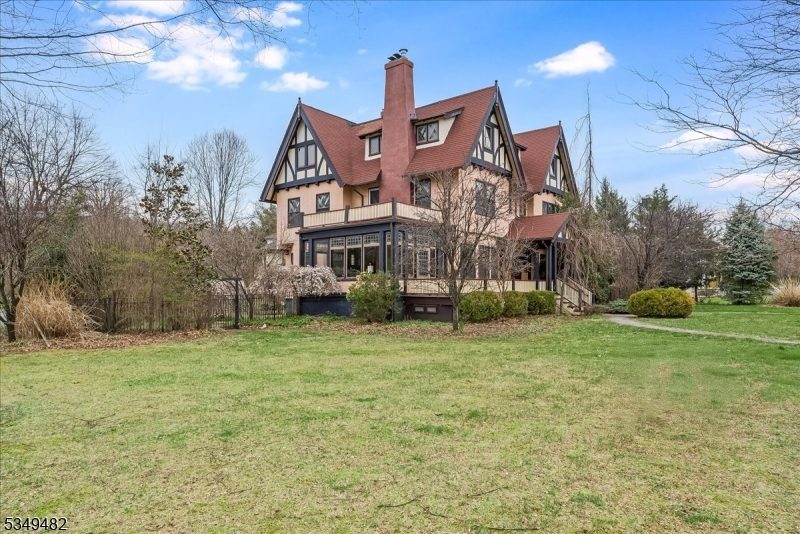
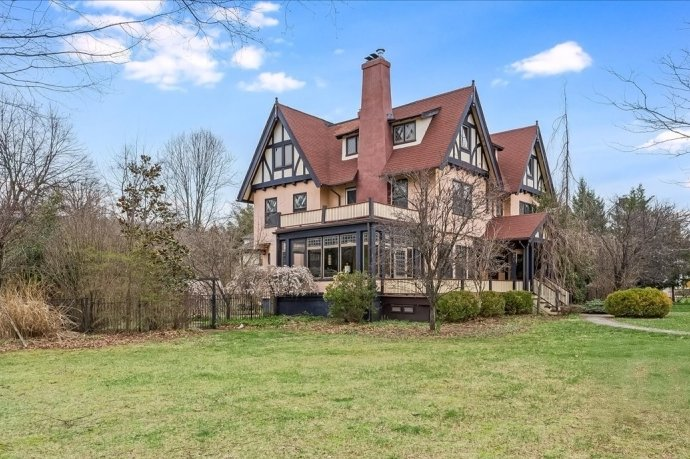
Feature Montclair and Park Avenue on the home page, deep-link projects
Hero: replace the middle (kitchen) and right (nursery) panels with the
Montclair kitchen and the Park Avenue living/dining room. These reference
the portfolio files directly rather than duplicating them into
images/home/.

Selected Work: the Eye Care Center and Peru Retreat tiles become Montclair
House and Park Avenue, and all five tiles now deep-link to their own
project rather than dropping the visitor at the top of the portfolio.
Each project-section carries an id, with scroll-margin-top so the heading
clears the fixed header.

Add a hash handler in main.js. The portfolio page is long and lazy-loads
its images, so the browser's own jump to an anchor can resolve before the
layout settles and leave the visitor at the top. It re-runs the jump on
load, and deliberately avoids requestAnimationFrame, which never fires
while a tab is hidden -- a link opened in a background tab would otherwise
never scroll.

Realign the first Montclair before/after pair. The two frames were shot
from different distances, so the roofline jumped as the slider wiped
across. The before is now regenerated from the original with a 1.16x crop
offset 4% right and 8% down, which puts the gables and dormers on top of
their counterparts.

Left the second pair alone: its before is shot close to the pool and the
after from much further back, and every crop that lines up the roof pulled
the two further apart rather than closer.

diff --git a/index.html b/index.html
@@ -22,7 +22,7 @@
   <link rel="preconnect" href="https://fonts.gstatic.com" crossorigin>
   <link href="https://fonts.googleapis.com/css2?family=Cormorant+Garamond:ital,wght@0,300;0,400;0,700;1,300;1,400&family=Montserrat:wght@300;400;500;600;700&display=swap" rel="stylesheet">
   <link rel="icon" type="image/svg+xml" href="images/common/favicon.svg">
-  <link rel="stylesheet" href="css/style.css?v=9">
+  <link rel="stylesheet" href="css/style.css?v=10">
 </head>
 <body class="home">
 
@@ -48,8 +48,8 @@
   <section class="hero">
     <div class="hero-bg">
       <img src="images/home/home_6.jpg" alt="Modern kitchen renovation" loading="eager">
-      <img src="images/home/home_3.jpg" alt="Luxury marble bathroom and kitchen" loading="eager">
-      <img src="images/home/home_8.jpg" alt="Custom nursery renovation" loading="eager">
+      <img src="images/portfolio/montclair-house/after-06.jpg" alt="Montclair House kitchen renovation" loading="eager">
+      <img src="images/portfolio/park-avenue/after-02.jpg" alt="Park Avenue living and dining room renovation" loading="eager">
     </div>
     <div class="hero-overlay"></div>
     <div class="hero-content">
@@ -70,25 +70,25 @@
       <p class="section-text">From luxury apartment renovations in Manhattan to custom millwork, every project is guided by thoughtful design and meticulous craftsmanship.</p>
     </div>
     <div class="masonry-grid reveal">
-      <a href="/portfolio" class="grid-item tall">
+      <a href="/portfolio#upper-east-side" class="grid-item tall">
         <img src="images/portfolio/upper-east-side/after-04.jpg" alt="Upper East Side living room renovation" loading="lazy">
         <div class="overlay"><span>Upper East Side</span></div>
       </a>
-      <a href="/portfolio" class="grid-item">
+      <a href="/portfolio#upper-east-side" class="grid-item">
         <img src="images/portfolio/upper-east-side/after-01.jpg" alt="Upper East Side apartment renovation" loading="lazy">
         <div class="overlay"><span>Upper East Side</span></div>
       </a>
-      <a href="/portfolio" class="grid-item">
+      <a href="/portfolio#midtown-bookshelves" class="grid-item">
         <img src="images/portfolio/midtown-bookshelves/after-02.jpg" alt="Midtown custom bookshelves" loading="lazy">
         <div class="overlay"><span>Midtown Bookshelves</span></div>
       </a>
-      <a href="/portfolio" class="grid-item">
-        <img src="images/portfolio/eye-care-center/after-01.png" alt="Eye Care Center office renovation" loading="lazy">
-        <div class="overlay"><span>Eye Care Center</span></div>
+      <a href="/portfolio#montclair-house" class="grid-item">
+        <img src="images/portfolio/montclair-house/after-06.jpg" alt="Montclair House kitchen renovation" loading="lazy">
+        <div class="overlay"><span>Montclair House</span></div>
       </a>
-      <a href="/portfolio" class="grid-item">
-        <img src="images/portfolio/andean-timber-retreat/interior-01.jpg" alt="Andean Timber Retreat interior" loading="lazy">
-        <div class="overlay"><span>Peru Retreat</span></div>
+      <a href="/portfolio#park-avenue" class="grid-item">
+        <img src="images/portfolio/park-avenue/after-02.jpg" alt="Park Avenue living and dining room renovation" loading="lazy">
+        <div class="overlay"><span>Park Avenue</span></div>
       </a>
     </div>
   </section>
@@ -188,7 +188,7 @@
     </div>
   </footer>
 
-  <script src="js/main.js?v=9"></script>
+  <script src="js/main.js?v=11"></script>
 
   <!-- Structured Data -->
   <script type="application/ld+json">

diff --git a/portfolio.html b/portfolio.html
@@ -21,7 +21,7 @@
   <link rel="preconnect" href="https://fonts.gstatic.com" crossorigin>
   <link href="https://fonts.googleapis.com/css2?family=Cormorant+Garamond:ital,wght@0,300;0,400;0,700;1,300;1,400&family=Montserrat:wght@300;400;500;600;700&display=swap" rel="stylesheet">
   <link rel="icon" type="image/svg+xml" href="images/common/favicon.svg">
-  <link rel="stylesheet" href="css/style.css?v=9">
+  <link rel="stylesheet" href="css/style.css?v=10">
 </head>
 <body>
 
@@ -54,7 +54,7 @@
   <!-- ========================================== -->
   <!-- Project 1: Montclair House Renovation            -->
   <!-- ========================================== -->
-  <section class="project-section">
+  <section class="project-section" id="montclair-house">
     <div class="project-header reveal">
       <h3>Montclair House Renovation</h3>
       <p class="project-type">Before &amp; After</p>
@@ -205,7 +205,7 @@
   <!-- ========================================== -->
   <!-- Project 2: Park Avenue Apartment Renovation      -->
   <!-- ========================================== -->
-  <section class="project-section">
+  <section class="project-section" id="park-avenue">
     <div class="project-header reveal">
       <h3>Park Avenue Apartment Renovation</h3>
       <p class="project-type">Before &amp; After</p>
@@ -333,7 +333,7 @@
   <!-- ========================================== -->
   <!-- Project 3: Upper East Side                 -->
   <!-- ========================================== -->
-  <section class="project-section">
+  <section class="project-section" id="upper-east-side">
     <div class="project-header reveal">
       <h3>Upper East Side Apartment Renovation</h3>
       <p class="project-type">Before &amp; After</p>
@@ -409,7 +409,7 @@
   <!-- ========================================== -->
   <!-- Project 4: Midtown Bookshelves            -->
   <!-- ========================================== -->
-  <section class="project-section">
+  <section class="project-section" id="midtown-bookshelves">
     <div class="project-header reveal">
       <h3>Midtown Bookshelves</h3>
       <p class="project-type">Before &amp; After</p>
@@ -455,7 +455,7 @@
   <!-- ========================================== -->
   <!-- Project 5: Eye Care Center                -->
   <!-- ========================================== -->
-  <section class="project-section">
+  <section class="project-section" id="eye-care-center">
     <div class="project-header reveal">
       <h3>Eye Care Center Office Renovation</h3>
       <p class="project-type">Before &amp; After</p>
@@ -493,7 +493,7 @@
   <!-- ========================================== -->
   <!-- Project 6: Andean Timber Retreat           -->
   <!-- ========================================== -->
-  <section class="project-section">
+  <section class="project-section" id="andean-timber-retreat">
     <div class="project-header reveal">
       <h3>Andean Timber Retreat</h3>
       <p class="project-type">Country House in Peru</p>
@@ -550,6 +550,6 @@
     </div>
   </footer>
 
-  <script src="js/main.js?v=9"></script>
+  <script src="js/main.js?v=11"></script>
 </body>
 </html>

diff --git a/js/main.js b/js/main.js
@@ -224,3 +224,35 @@ if (!document.querySelector('.hero') && !document.querySelector('.page-hero')) {
 
   document.addEventListener('mouseup', function () { active = null; });
 })();
+
+// === Deep links to a single project (e.g. /portfolio#park-avenue) ===
+// The portfolio page is long and image-heavy, so the browser's own jump to an
+// anchor can fire before layout has settled and end up at the top of the page.
+// Re-run the jump once everything has loaded. CSS scroll-margin-top keeps the
+// heading clear of the fixed header.
+(function () {
+  function jumpToHash(instant) {
+    if (!location.hash) return;
+    var target = null;
+    try {
+      target = document.getElementById(decodeURIComponent(location.hash.slice(1)));
+    } catch (e) {
+      return;
+    }
+    if (!target) return;
+    target.scrollIntoView({ behavior: instant ? 'auto' : 'smooth', block: 'start' });
+  }
+
+  if (location.hash) {
+    // 'load' waits for images, so the target's final position is known.
+    // Deliberately not requestAnimationFrame: it never fires while the tab is
+    // hidden, so a link opened in a background tab would stay at the top.
+    window.addEventListener('load', function () {
+      jumpToHash(true);
+      setTimeout(function () { jumpToHash(true); }, 80);
+    });
+  }
+
+  // Following a #link while already on the page.
+  window.addEventListener('hashchange', function () { jumpToHash(false); });
+})();

diff --git a/404.html b/404.html
@@ -10,7 +10,7 @@
   <link rel="preconnect" href="https://fonts.gstatic.com" crossorigin>
   <link href="https://fonts.googleapis.com/css2?family=Cormorant+Garamond:ital,wght@0,300;0,400;0,700;1,300;1,400&family=Montserrat:wght@300;400;500;600;700&display=swap" rel="stylesheet">
   <link rel="icon" type="image/svg+xml" href="/images/common/favicon.svg">
-  <link rel="stylesheet" href="/css/style.css?v=9">
+  <link rel="stylesheet" href="/css/style.css?v=10">
   <style>
     /* This page is served from any URL depth, so it keeps its own minimal layout
        rather than relying on a hero image to push content below the fixed header. */
@@ -125,6 +125,6 @@
     </div>
   </footer>
 
-  <script src="/js/main.js?v=9"></script>
+  <script src="/js/main.js?v=11"></script>
 </body>
 </html>

diff --git a/get-started.html b/get-started.html
@@ -21,7 +21,7 @@
   <link rel="preconnect" href="https://fonts.gstatic.com" crossorigin>
   <link href="https://fonts.googleapis.com/css2?family=Cormorant+Garamond:ital,wght@0,300;0,400;0,700;1,300;1,400&family=Montserrat:wght@300;400;500;600;700&display=swap" rel="stylesheet">
   <link rel="icon" type="image/svg+xml" href="images/common/favicon.svg">
-  <link rel="stylesheet" href="css/style.css?v=9">
+  <link rel="stylesheet" href="css/style.css?v=10">
 </head>
 <body>
 
@@ -597,7 +597,7 @@
     </div>
   </footer>
 
-  <script src="js/main.js?v=9"></script>
+  <script src="js/main.js?v=11"></script>
   <script>
     // ================================
     // Conditional Form Logic

diff --git a/how-it-works.html b/how-it-works.html
@@ -21,7 +21,7 @@
   <link rel="preconnect" href="https://fonts.gstatic.com" crossorigin>
   <link href="https://fonts.googleapis.com/css2?family=Cormorant+Garamond:ital,wght@0,300;0,400;0,700;1,300;1,400&family=Montserrat:wght@300;400;500;600;700&display=swap" rel="stylesheet">
   <link rel="icon" type="image/svg+xml" href="images/common/favicon.svg">
-  <link rel="stylesheet" href="css/style.css?v=9">
+  <link rel="stylesheet" href="css/style.css?v=10">
 </head>
 <body>
 
@@ -263,6 +263,6 @@
     </div>
   </footer>
 
-  <script src="js/main.js?v=9"></script>
+  <script src="js/main.js?v=11"></script>
 </body>
 </html>

diff --git a/portfolio2.html b/portfolio2.html
@@ -10,7 +10,7 @@
   <link rel="preconnect" href="https://fonts.gstatic.com" crossorigin>
   <link href="https://fonts.googleapis.com/css2?family=Cormorant+Garamond:ital,wght@0,300;0,400;0,700;1,300;1,400&family=Montserrat:wght@300;400;500;600;700&display=swap" rel="stylesheet">
   <link rel="icon" type="image/svg+xml" href="images/common/favicon.svg">
-  <link rel="stylesheet" href="css/style.css?v=9">
+  <link rel="stylesheet" href="css/style.css?v=10">
 </head>
 <body>
 
@@ -359,6 +359,6 @@
     </div>
   </footer>
 
-  <script src="js/main.js?v=9"></script>
+  <script src="js/main.js?v=11"></script>
 </body>
 </html>

diff --git a/services.html b/services.html
@@ -21,7 +21,7 @@
   <link rel="preconnect" href="https://fonts.gstatic.com" crossorigin>
   <link href="https://fonts.googleapis.com/css2?family=Cormorant+Garamond:ital,wght@0,300;0,400;0,700;1,300;1,400&family=Montserrat:wght@300;400;500;600;700&display=swap" rel="stylesheet">
   <link rel="icon" type="image/svg+xml" href="images/common/favicon.svg">
-  <link rel="stylesheet" href="css/style.css?v=9">
+  <link rel="stylesheet" href="css/style.css?v=10">
 </head>
 <body>
 
@@ -140,6 +140,6 @@
     </div>
   </footer>
 
-  <script src="js/main.js?v=9"></script>
+  <script src="js/main.js?v=11"></script>
 </body>
 </html>

diff --git a/css/style.css b/css/style.css
@@ -31,6 +31,12 @@ html {
   font-size: 16px;
 }
 
+@media (prefers-reduced-motion: reduce) {
+  html {
+    scroll-behavior: auto;
+  }
+}
+
 body {
   font-family: var(--font-body);
   color: var(--color-black);
@@ -746,6 +752,12 @@ img {
   padding: 80px;
   max-width: 1400px;
   margin: 0 auto;
+}
+
+/* Deep links from the home page land on a specific project. The header is
+   fixed, so hold the scroll stop below it rather than under it. */
+.project-section[id] {
+  scroll-margin-top: 110px;
 }
 
 .project-header {
